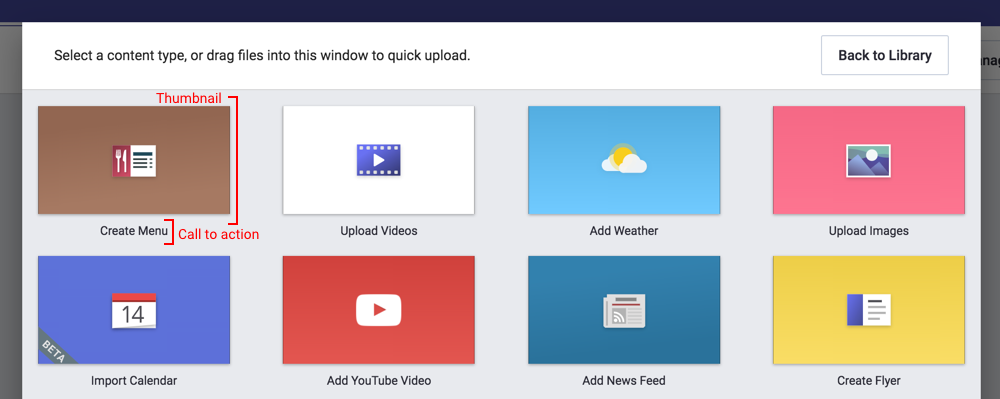
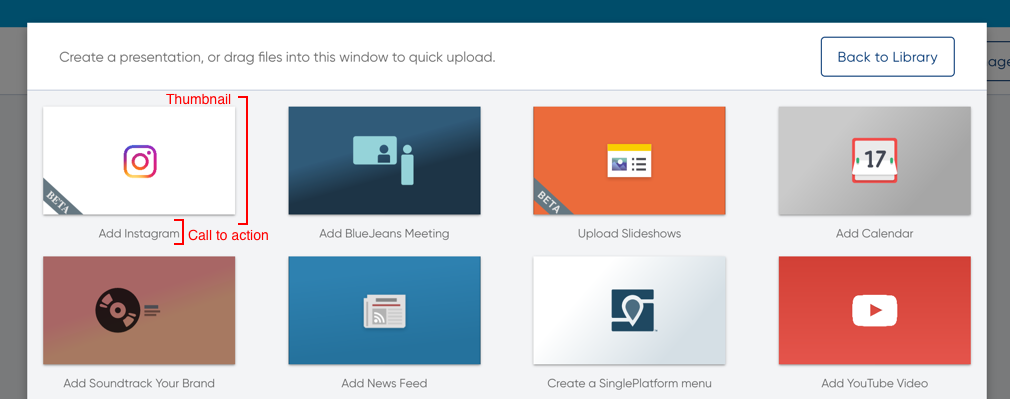
Update Dashboard images

diff --git a/README.md b/README.md
@@ -16,3 +16,7 @@ Demos:
 [Menu](https://raydiant-kit-menu-example.netlify.com)
 
 [Contributing Guidelines](CONTRIBUTING.md)
+
+---
+
+![](raydiant-steps.png)
